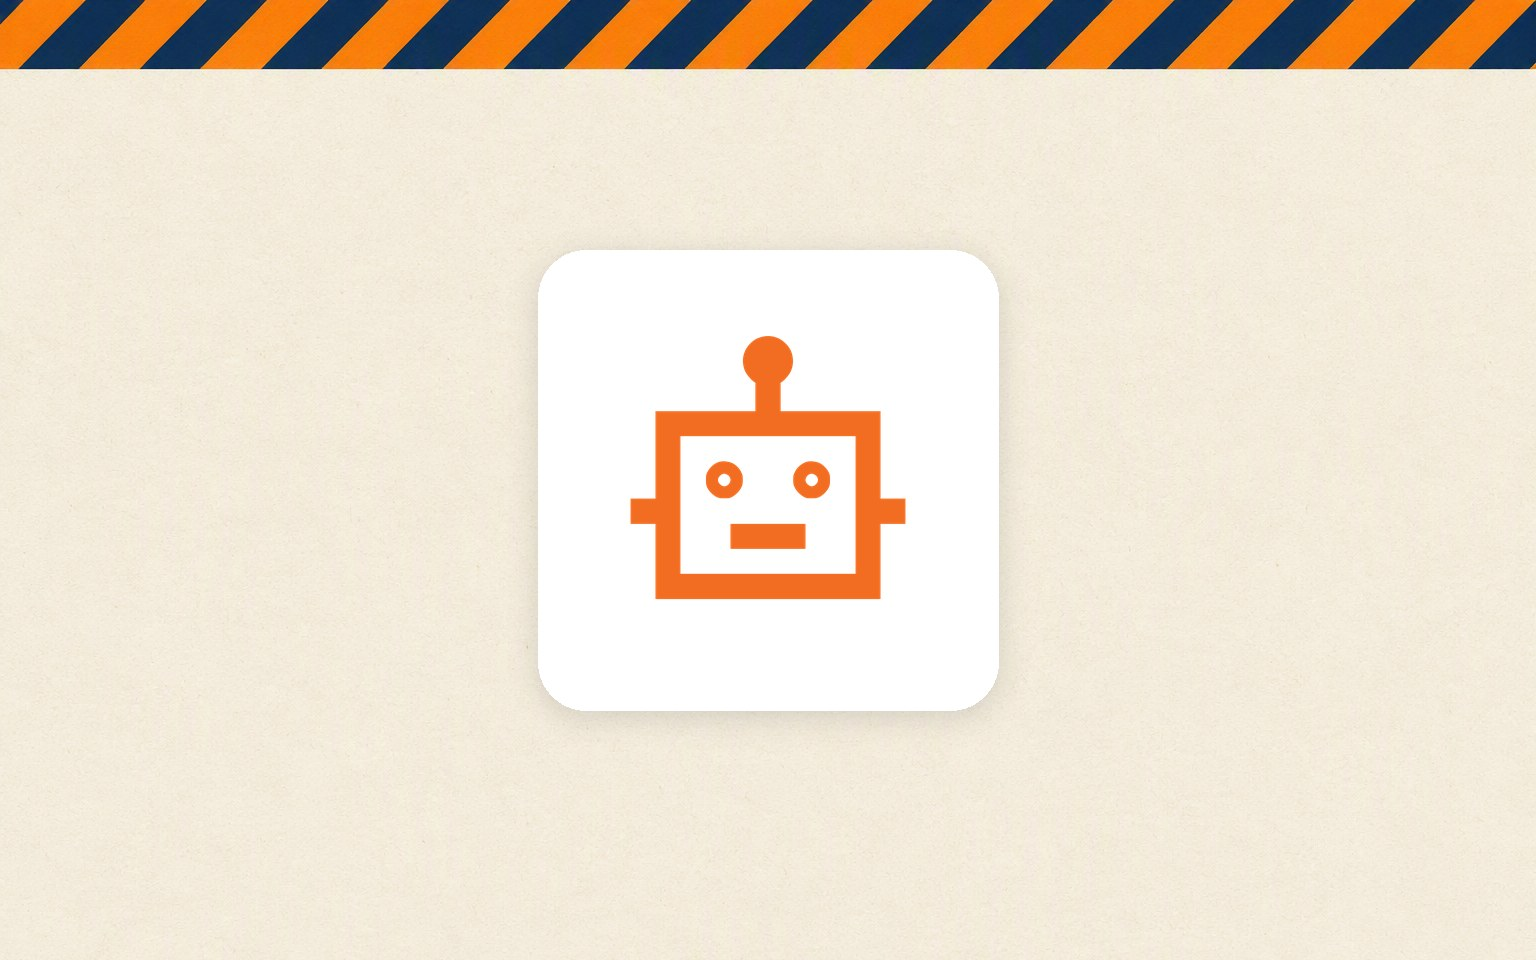
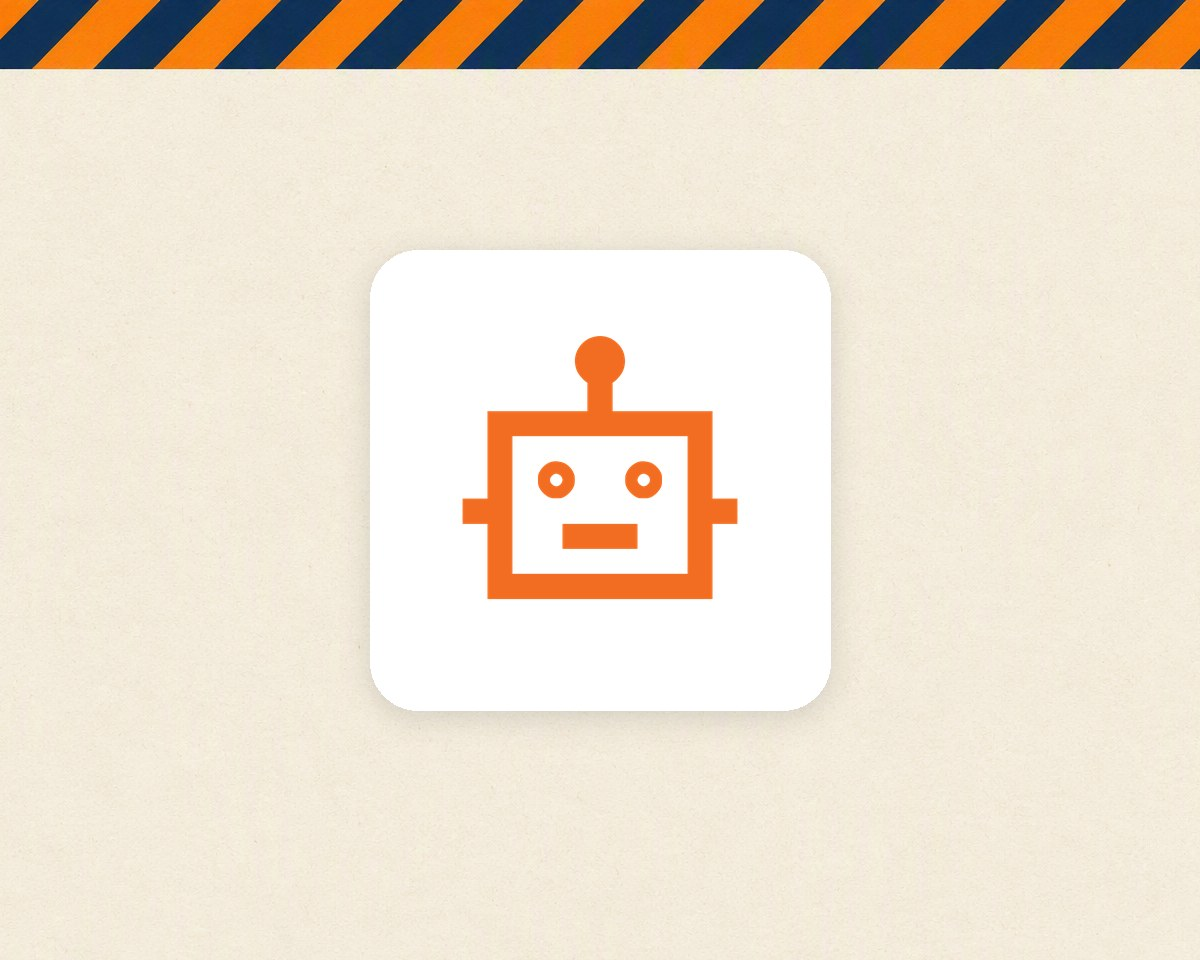
分享图改为 5:4（1200×960）：微信分享缩略图按 5:4 裁剪显示，3:2 源图会导致居中图标被裁偏

diff --git a/design/make_share_images.py b/design/make_share_images.py
@@ -24,11 +24,16 @@ APPS = {
 }
 
 WATERMARK_CROP = 64  # 裁掉底部 AI 生成水印
+SHARE_RATIO = 5 / 4  # 微信分享缩略图按 5:4 显示，源头直接用 5:4 避免被裁偏
 
 
 def load_background() -> Image.Image:
     bg = Image.open(BG_PATH).convert('RGB')
-    return bg.crop((0, 0, bg.width, bg.height - WATERMARK_CROP))
+    bg = bg.crop((0, 0, bg.width, bg.height - WATERMARK_CROP))
+    # 居中裁成 5:4（微信分享图推荐比例）
+    target_w = round(bg.height * SHARE_RATIO)
+    x0 = (bg.width - target_w) // 2
+    return bg.crop((x0, 0, x0 + target_w, bg.height))
 
 
 def make_card(size: int, radius: int) -> Image.Image:

diff --git a/开发指南.md b/开发指南.md
@@ -236,7 +236,7 @@ VALUES ('my-app', '应用名称', 'robot', '/pkg-myapp/pages/index/index', 3, 1)
 
 - `app` 传 `sys_app.app_key`（分享图用应用图标）；非应用页面（首页/登录/管理等）不传，用工具箱分享图；
 - 标题自动拼「xxx · 检修一班工具箱」；分享路径默认当前页，登录页固定落 `/pages/home/home`（首页门控自动处理未登录跳转）；
-- 分享图由 `design/make_share_images.py` 生成：背景统一（暖纸底 + 顶部橙青警示斜纹条），中央白色圆角卡片 + 图标。新应用接入时：① 查图标码点——`miniprogram/node_modules/tdesign-miniprogram/miniprogram_dist/icon/icon.wxss` 中 `.t-icon-<图标名>:before` 的 `content`；② 在脚本 `APPS` 字典加 `'app-key': 0x码点` 后重跑，生成 `miniprogram/images/share/share-<app-key>.jpg`；③ `utils/share.js` 的 `SHARE_IMAGES` 加一行映射；
+- 分享图由 `design/make_share_images.py` 生成：背景统一（暖纸底 + 顶部橙青警示斜纹条），中央白色圆角卡片 + 图标，**尺寸固定 5:4（1200×960，微信分享缩略图按 5:4 裁剪显示，源头必须就是 5:4，否则图标会被裁偏）**。新应用接入时：① 查图标码点——`miniprogram/node_modules/tdesign-miniprogram/miniprogram_dist/icon/icon.wxss` 中 `.t-icon-<图标名>:before` 的 `content`；② 在脚本 `APPS` 字典加 `'app-key': 0x码点` 后重跑，生成 `miniprogram/images/share/share-<app-key>.jpg`；③ `utils/share.js` 的 `SHARE_IMAGES` 加一行映射；
 - 图标字形渲染自 TDesign 图标 webfont `design/font/t.ttf`（版本见上述 icon.wxss 的 `@font-face` URL），升级 tdesign-miniprogram 大版本后需重新下载同步。
 
 ## 六、已接入应用：Call Me（WeKnora 对接）
